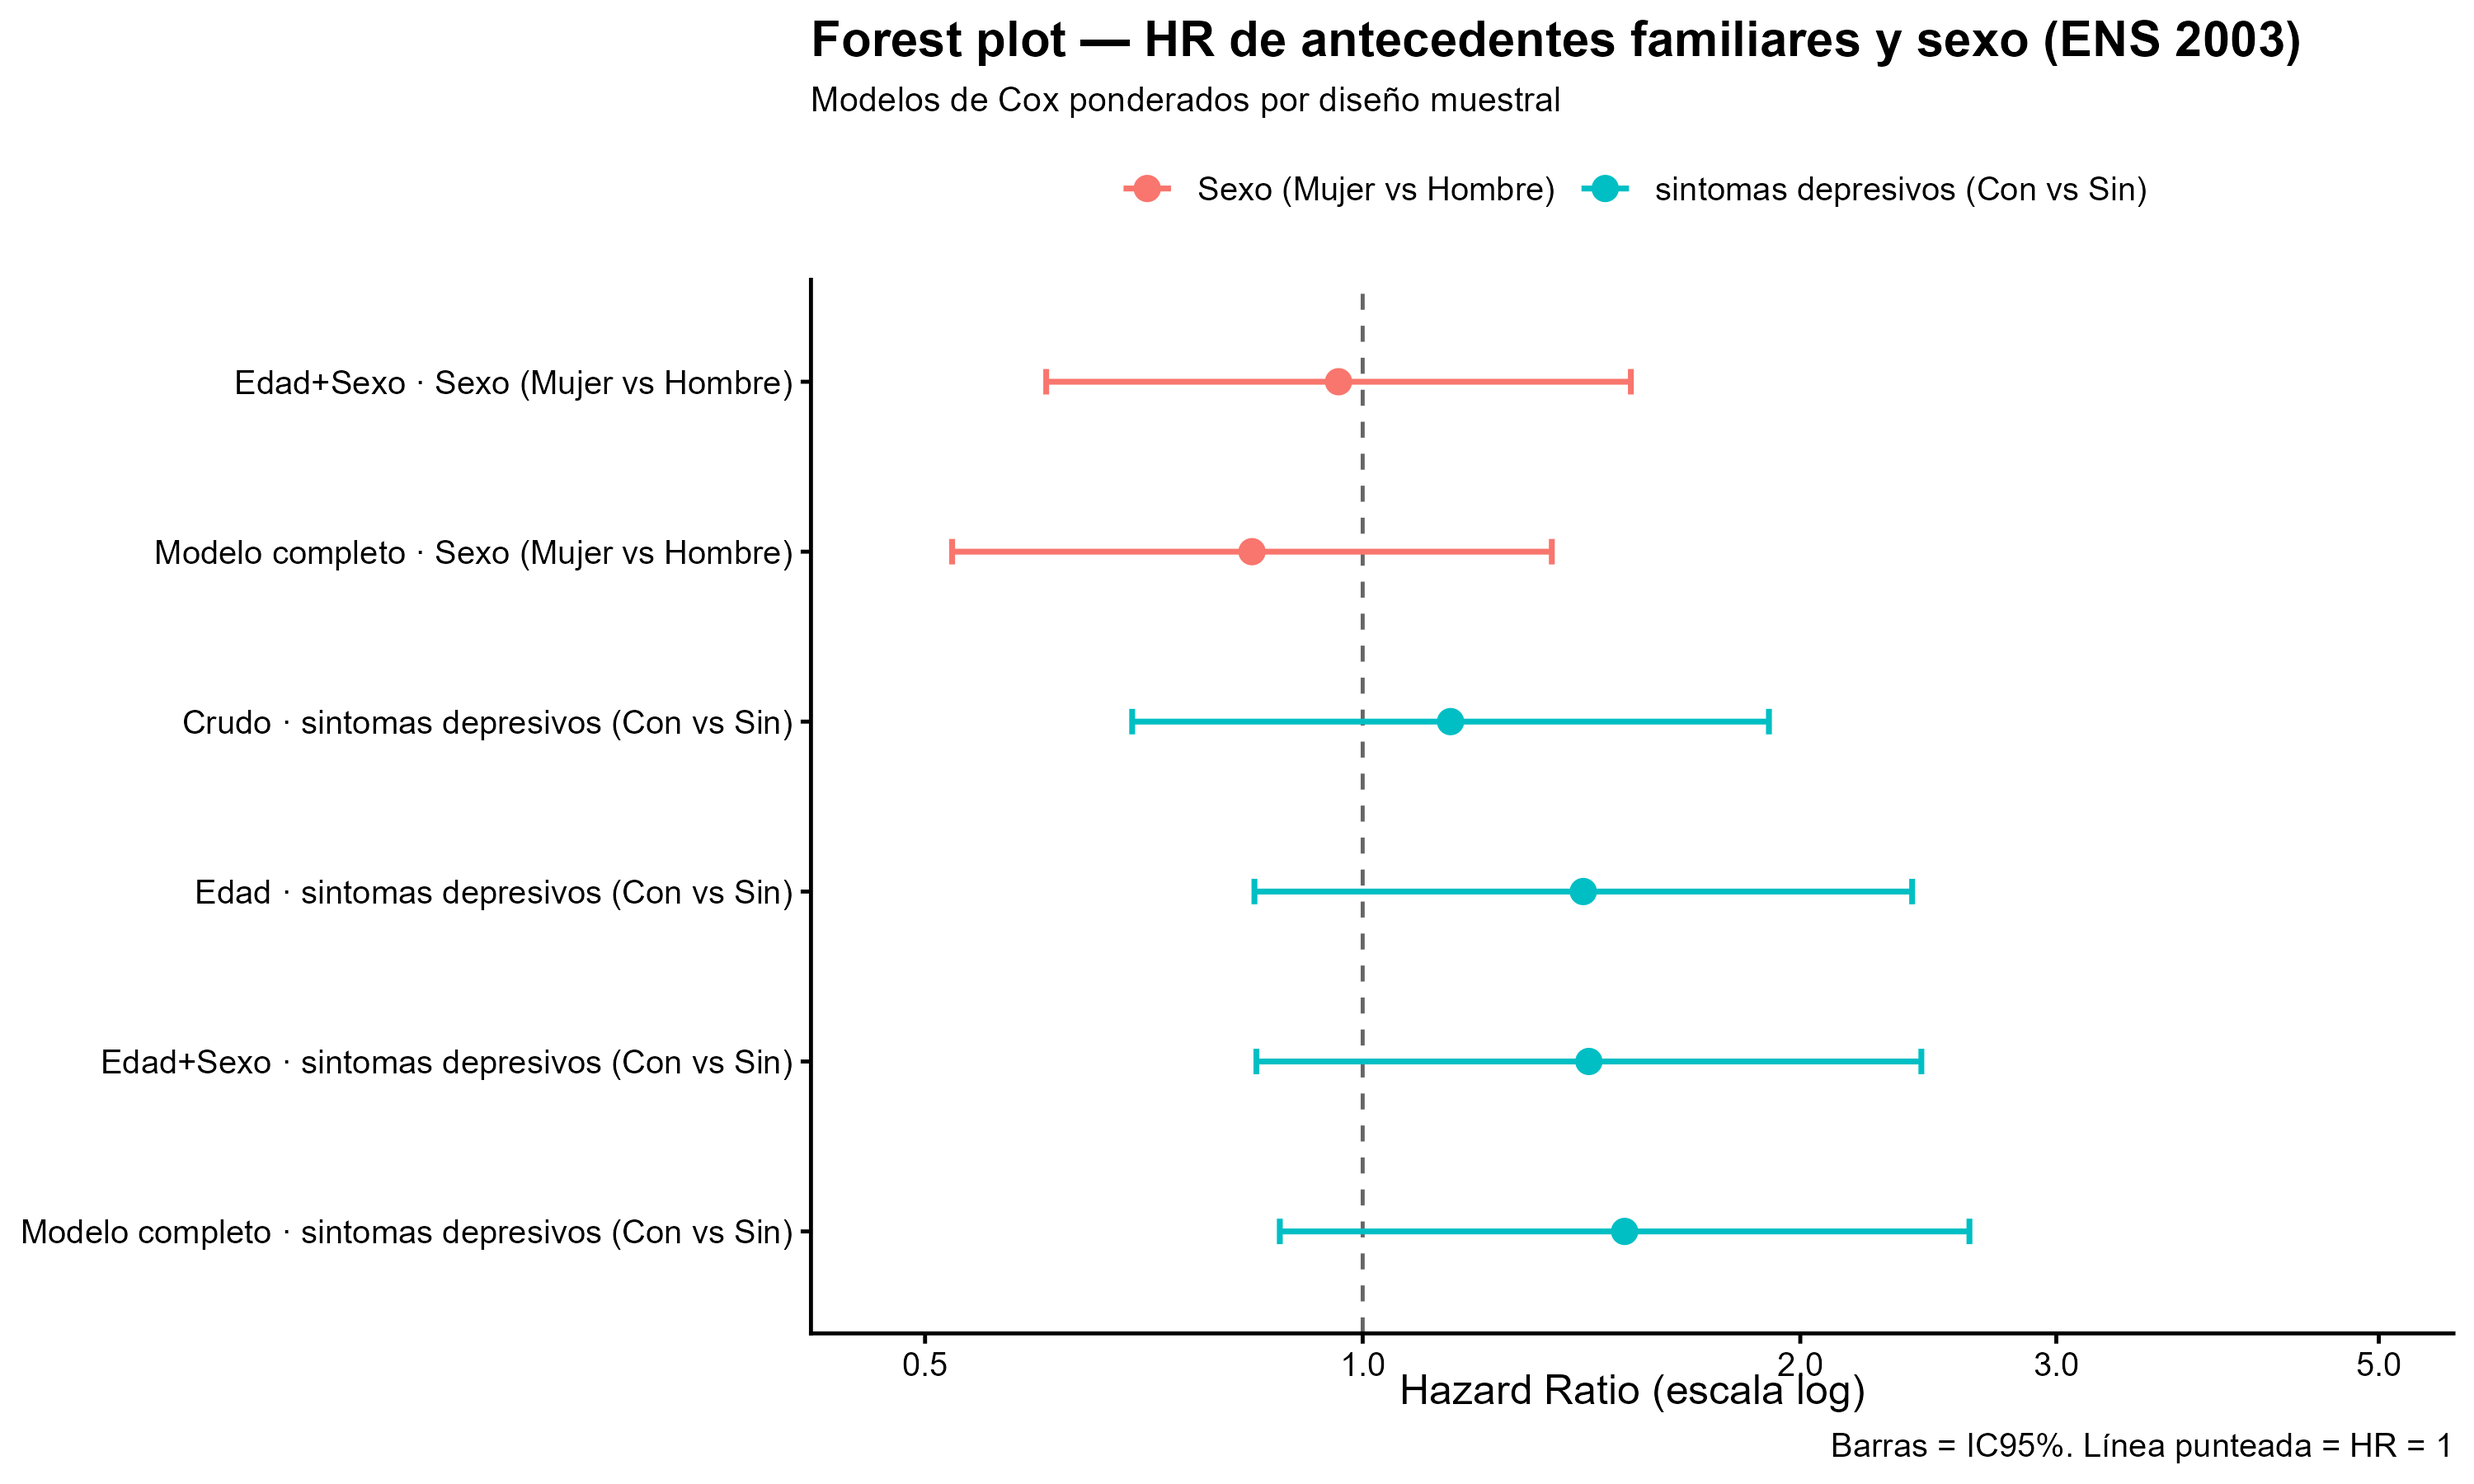
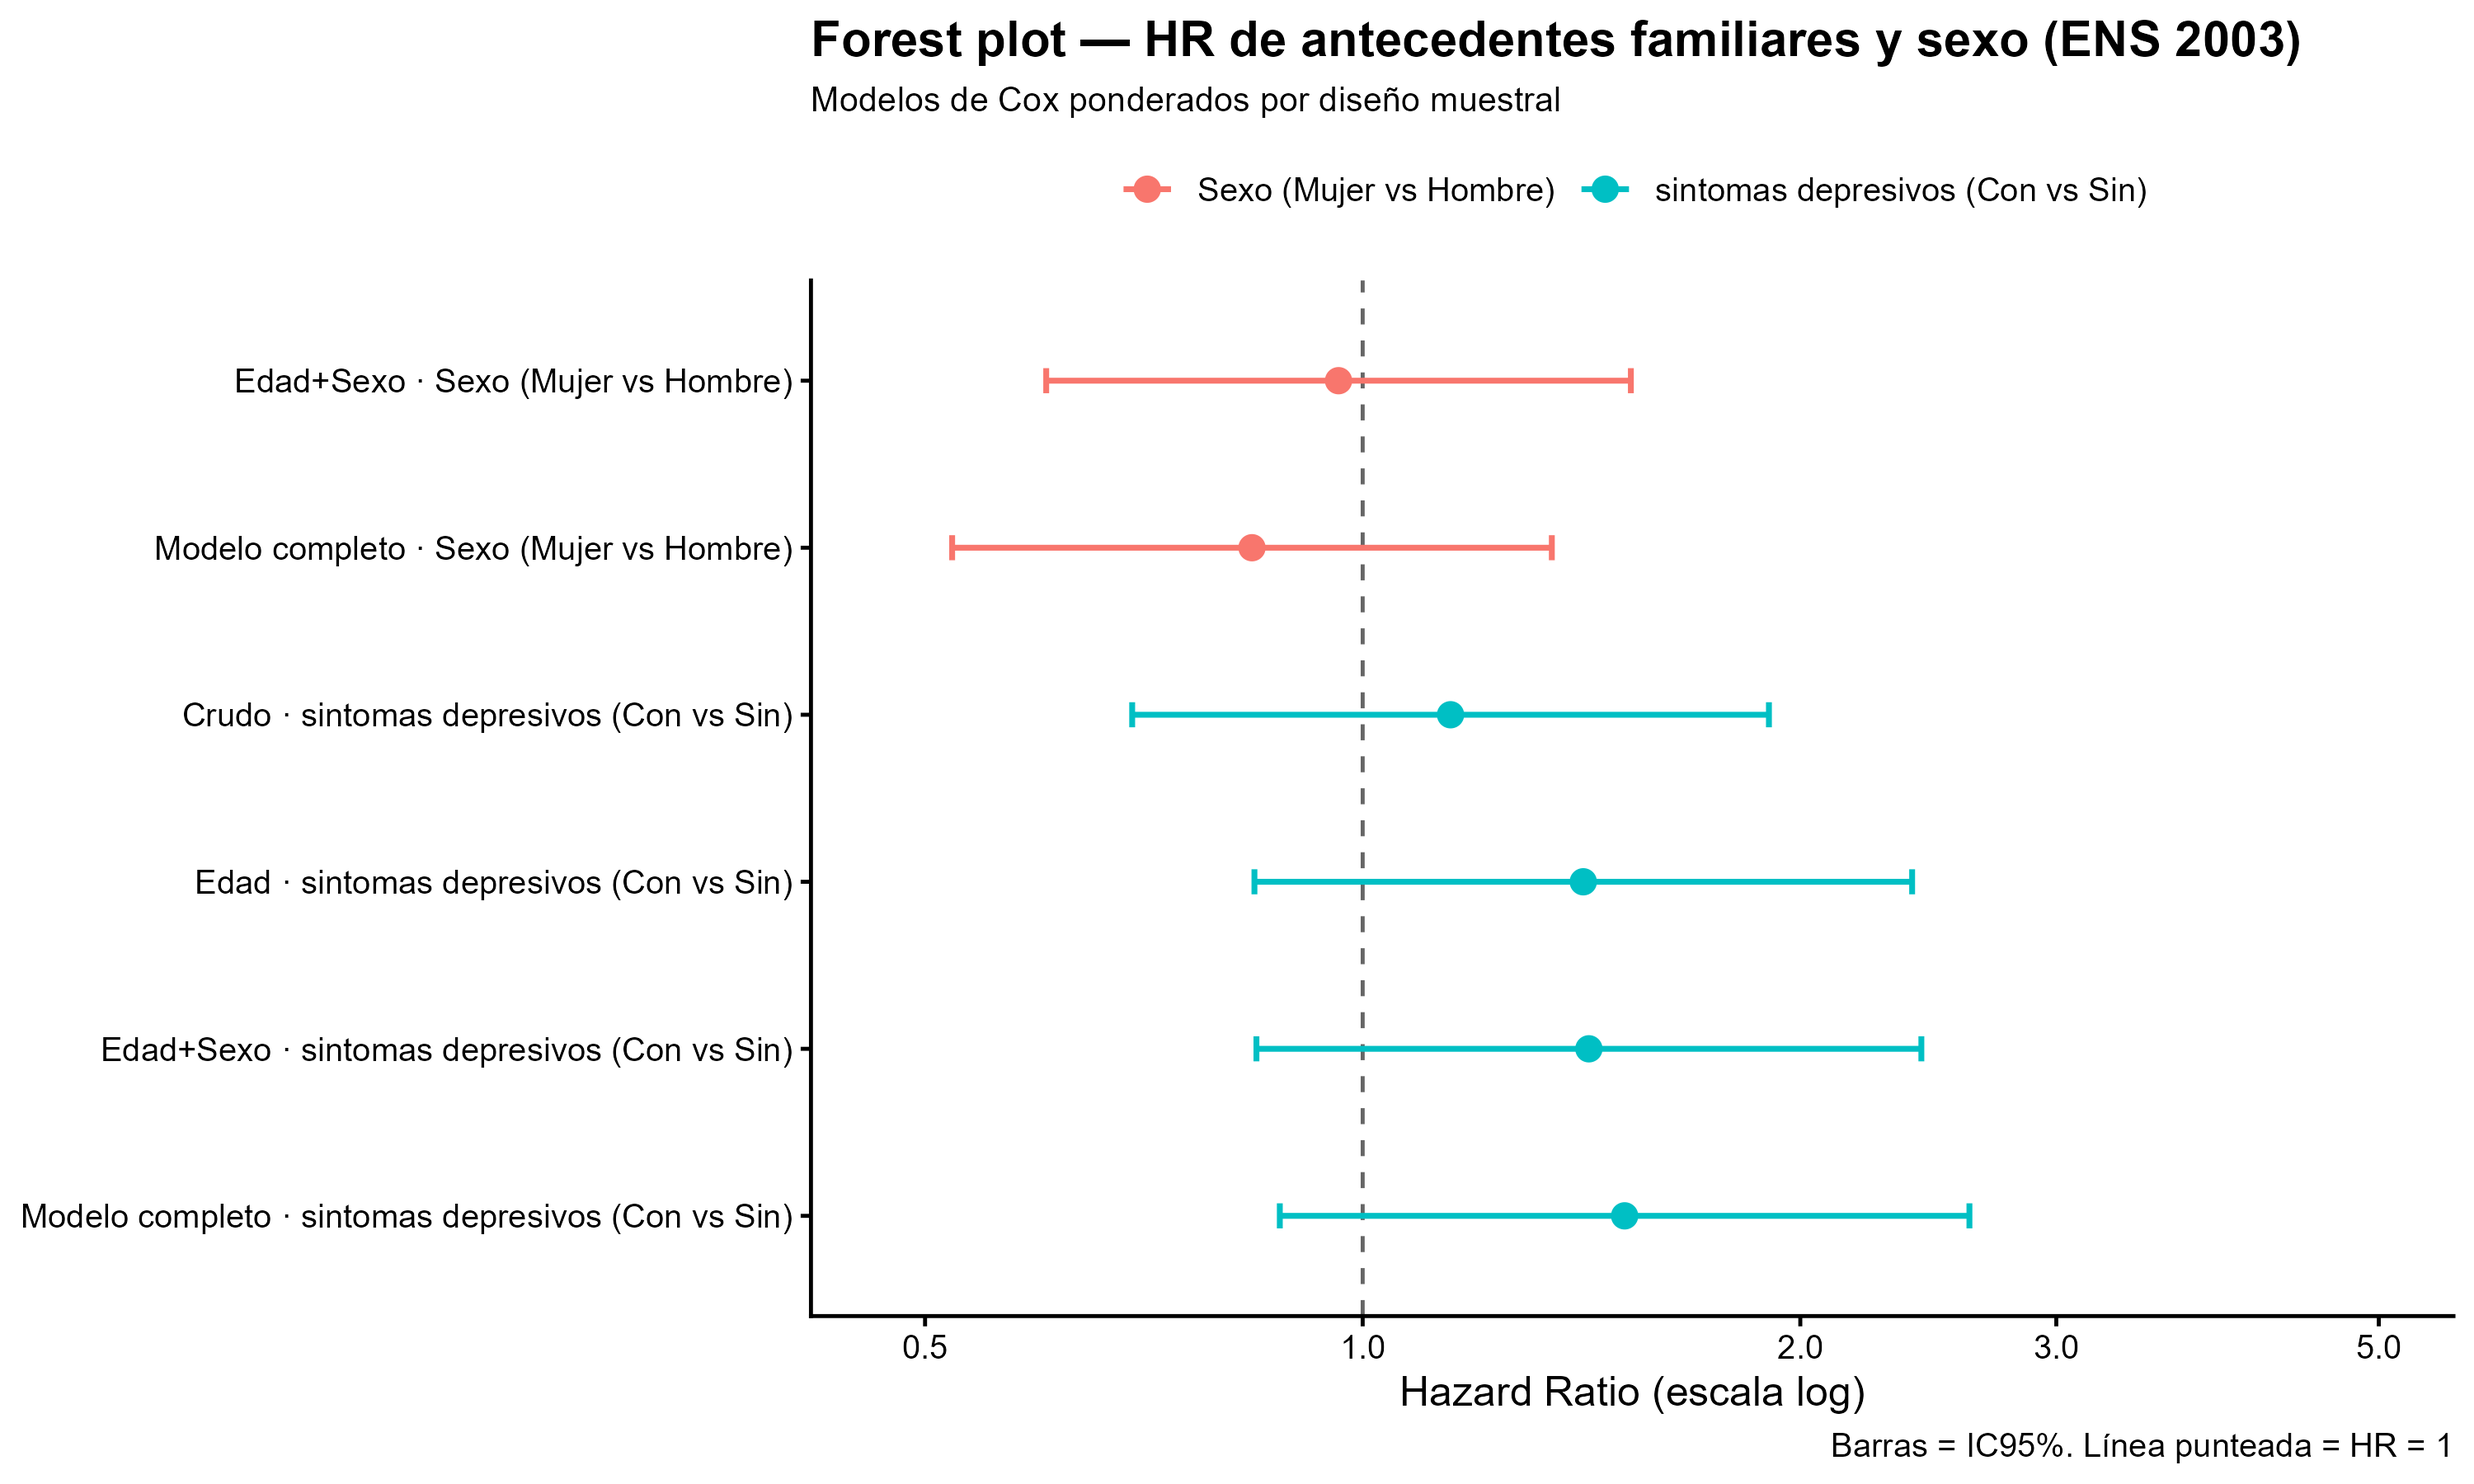
subí script HR conjunto

diff --git a/output/tables/tabla_cox_conjunta_2009.md b/output/tables/tabla_cox_conjunta_2009.md
@@ -1,0 +1,36 @@
+Table: Modelos de Cox conjunto para muerte por cáncer - ENS 2009
+
+|modelo          |term                        |    HR| IC_inf| IC_sup| p.value|
+|:---------------|:---------------------------|-----:|------:|------:|-------:|
+|Crudo           |Depresion_1_APWith symptoms | 0.389|  0.158|  0.958|   0.040|
+|Crudo           |ictaumentado1               | 2.163|  1.267|  3.693|   0.005|
+|Crudo           |af_cancer_binariaYes        | 2.609|  1.516|  4.489|   0.001|
+|Edad            |Depresion_1_APWith symptoms | 0.538|  0.212|  1.366|   0.192|
+|Edad            |ictaumentado1               | 1.292|  0.750|  2.228|   0.356|
+|Edad            |af_cancer_binariaYes        | 2.083|  1.154|  3.758|   0.015|
+|Edad            |edad                        | 1.086|  1.065|  1.107|   0.000|
+|Edad+Sexo       |Depresion_1_APWith symptoms | 0.647|  0.257|  1.629|   0.356|
+|Edad+Sexo       |ictaumentado1               | 1.384|  0.797|  2.405|   0.248|
+|Edad+Sexo       |af_cancer_binariaYes        | 2.161|  1.197|  3.898|   0.011|
+|Edad+Sexo       |edad                        | 1.088|  1.066|  1.111|   0.000|
+|Edad+Sexo       |sexoFemale                  | 0.570|  0.330|  0.984|   0.044|
+|Edad+Sexo+NEDU  |Depresion_1_APWith symptoms | 0.649|  0.260|  1.619|   0.354|
+|Edad+Sexo+NEDU  |ictaumentado1               | 1.326|  0.774|  2.273|   0.305|
+|Edad+Sexo+NEDU  |af_cancer_binariaYes        | 2.192|  1.233|  3.898|   0.008|
+|Edad+Sexo+NEDU  |edad                        | 1.079|  1.058|  1.100|   0.000|
+|Edad+Sexo+NEDU  |sexoFemale                  | 0.539|  0.316|  0.919|   0.023|
+|Edad+Sexo+NEDU  |nedu8-12 years              | 0.501|  0.277|  0.906|   0.022|
+|Edad+Sexo+NEDU  |nedu>12 years               | 0.561|  0.205|  1.531|   0.259|
+|Modelo completo |Depresion_1_APWith symptoms | 0.634|  0.252|  1.595|   0.333|
+|Modelo completo |ictaumentado1               | 1.657|  0.776|  3.536|   0.192|
+|Modelo completo |af_cancer_binariaYes        | 2.254|  1.259|  4.035|   0.006|
+|Modelo completo |edad                        | 1.079|  1.055|  1.104|   0.000|
+|Modelo completo |sexoFemale                  | 0.531|  0.307|  0.917|   0.023|
+|Modelo completo |nedu8-12 years              | 0.486|  0.246|  0.961|   0.038|
+|Modelo completo |nedu>12 years               | 0.563|  0.191|  1.664|   0.299|
+|Modelo completo |zonaRural                   | 1.098|  0.554|  2.176|   0.790|
+|Modelo completo |AUDITYes                    | 0.792|  0.329|  1.907|   0.603|
+|Modelo completo |fumaSmoker                  | 1.878|  0.968|  3.642|   0.062|
+|Modelo completo |imc                         | 0.972|  0.905|  1.044|   0.433|
+|Modelo completo |GPAQModerate                | 0.723|  0.358|  1.461|   0.366|
+|Modelo completo |GPAQHigh                    | 0.772|  0.394|  1.513|   0.450|

diff --git a/README.md b/README.md
@@ -1,2 +1,12 @@
 # ens_semilla
 Repositorio compartido para proyecto CECAN 
+
+## Instrucciones de uso
+1. Hacer pull
+2. En pestaña Procesamiento, correr archivos en el siguiente orden:
+ a. (Correrlo) 00_setup.R instala y carga paquetes. 
+ b. (No correrlo) 01_armonización.R, 02_bind_egresos_defunciones.R y 03_exclusiones.R son lo que se ejecuta para crear la "data-procesada". No correrlas
+ c. (Correrlo) 04_etiquetado_variables no es necesario correrlo porque se llama desde 05. 
+ d. 05_analisis_descriptivo.R (tabla 1) y 06_calculo_de_tasas.R (cálculo de tasas) correrlos en ese orden. 
+5. Falta crear archivos: 07_Antecedentes_Familiares.R (todo lo de Coni), 08_Depresion (todo lo de Josefa) y 09_ICT (todo lo de Carlos), 10_AFC_Depre_ICT (regresión conjunta). 
+6. Cada archivo personal debe tener: Kaplan Meier, regresión de Cox y meta análisis. 
